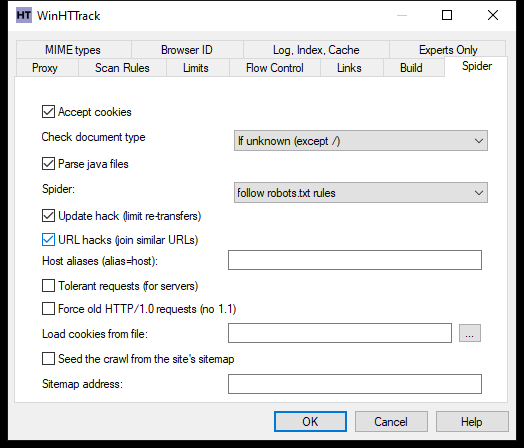
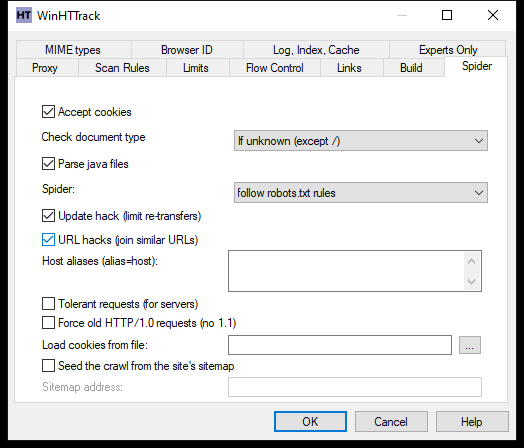
Reshoot the WinHTTrack guide screenshots against engine 05233895
Recaptured from httrack-windows master cda4ec9b (3.50-beta-7) over engine
05233895 (httrack-works 3a35258). Five guide images move: the Spider tab's
multi-line host-alias box, Browser ID's HTML-footer drop-down, the greyed
WARC and inline-asset sub-options, live counters on the progress pane, and
an About box 35px taller because its new signature row is reserved even
when blank, which is what an unsigned CI build leaves it.

Changed region(s): [[0.0611, 0.625, 0.916, 0.875], [0.4275, 0.875, 0.916, 0.9062], [0.8855, 0.625, 0.916, 0.6562]]

diff --git a/html/guide.html b/html/guide.html
@@ -111,7 +111,7 @@ scripted. The <a href="cmdguide.html">command-line guide</a> covers that side.</
 	preference</b> dropdown at the foot. The choice is remembered, and
 	<b>Preferences &gt; Language preference...</b> changes it later.</p>
 	<figure>
-		<img data-for="win" src="img/guide-win-language.png" alt="WinHTTrack About box with the language preference dropdown" width="369" height="371">
+		<img data-for="win" src="img/guide-win-language.png" alt="WinHTTrack About box with the language preference dropdown" width="369" height="406">
 	</figure>
 </div>
 
